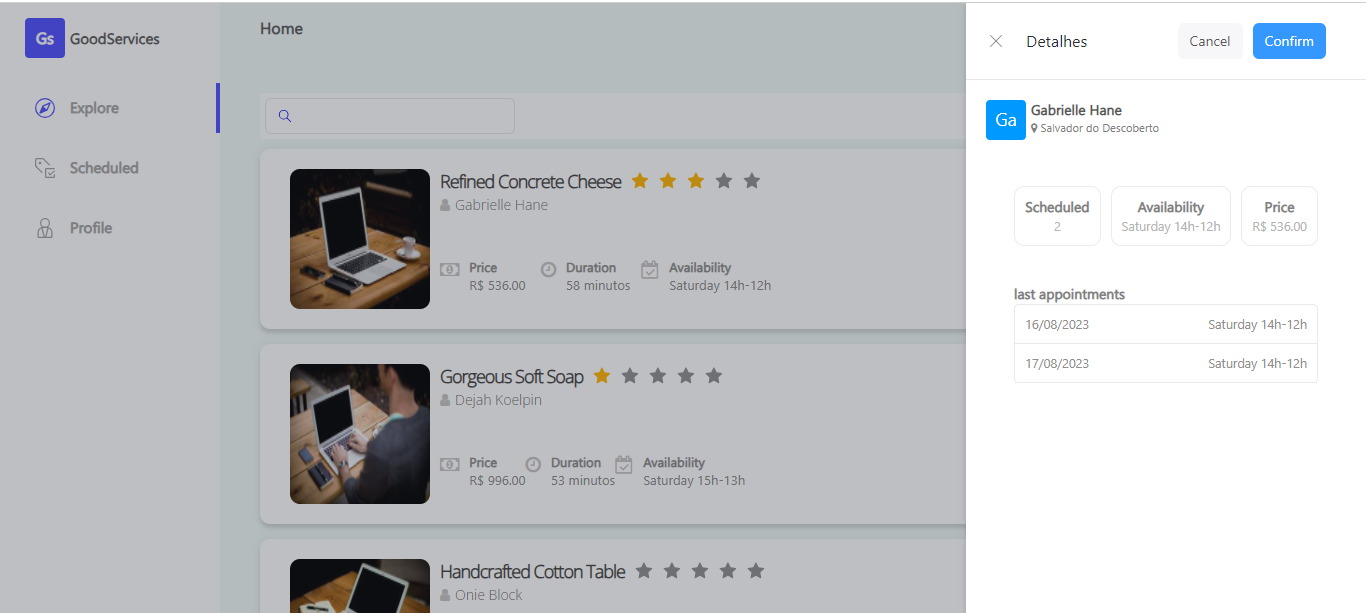
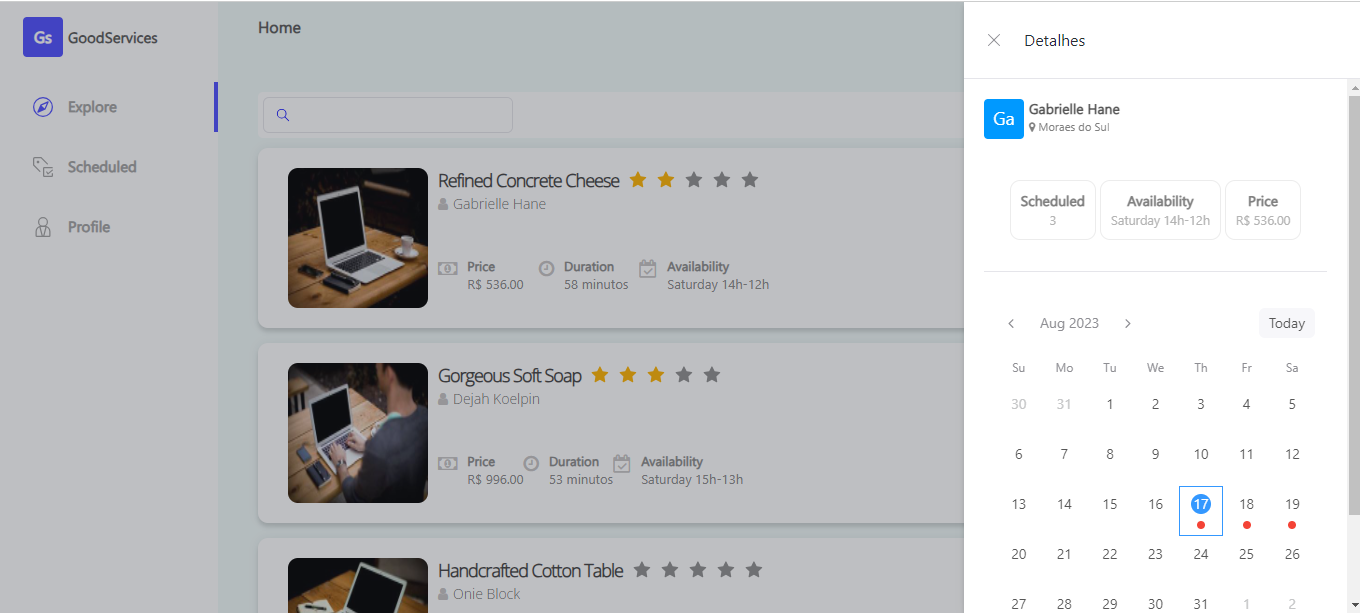
Update

diff --git a/GoodServiceApi/src/models/Scheduled.js b/GoodServiceApi/src/models/Scheduled.js
@@ -38,13 +38,21 @@ ScheduledService.getAllSchedule = async () => {
 
 
 ScheduledService.createSchedule = async (service_id, date, time) => {
+
+  let res = await ScheduledService.getAllSchedule()
+
+  let existingSchedules = res.filter(schedule => schedule.service_id === service_id && schedule.date === date);
+
+  if (existingSchedules.length > 0){
+    return 'Já existe um agendamento para este serviço na data especificada.'
+  }
+
   let data = {
     service_id: service_id,
     date: date,
     time: time,
     status: 'Agendado'
   };
-
 
   const newScheduledService = await ScheduledService.create(data);
   return newScheduledService;

diff --git a/GoodServiceApi/index.js b/GoodServiceApi/index.js
@@ -29,7 +29,7 @@ const swaggerOptions = {
 const swaggerSpec = swaggerDoc(swaggerOptions);
 
 app.use((req, res, next) => {
-  res.header('Access-Control-Allow-Origin', 'http://localhost:5173');
+  res.header('Access-Control-Allow-Origin', '*');
   res.header('Access-Control-Allow-Headers', 'Origin, X-Requested-With, Content-Type, Accept');
   next();
 });

diff --git a/README.md b/README.md
@@ -52,20 +52,6 @@ sequelize db:seed:all
 
 
 
-## Conexão com o front-end
-
-1. No arquivo GoodServiceApi/index.js altere o cors para o ip do front-end
-
-
-```javascript
-app.use((req, res, next) => {
-  res.header('Access-Control-Allow-Origin', '<Seu_ip_aqui>');
-  res.header('Access-Control-Allow-Headers', 'Origin, X-Requested-With, Content-Type, Accept');
-  next();
-});
-```
-
-
 ## Execução
 
 Para executar o projeto em modo de desenvolvimento, execute o seguinte comando:
@@ -106,6 +92,8 @@ O projeto será executado na porta especificada no arquivo de configuração.
 
 
 ![Web](./imagens/front.png)
+
+![Drawer](./imagens/front-drawer.png)
 
 ![Mobile](./imagens/front-mobile.png)
 
